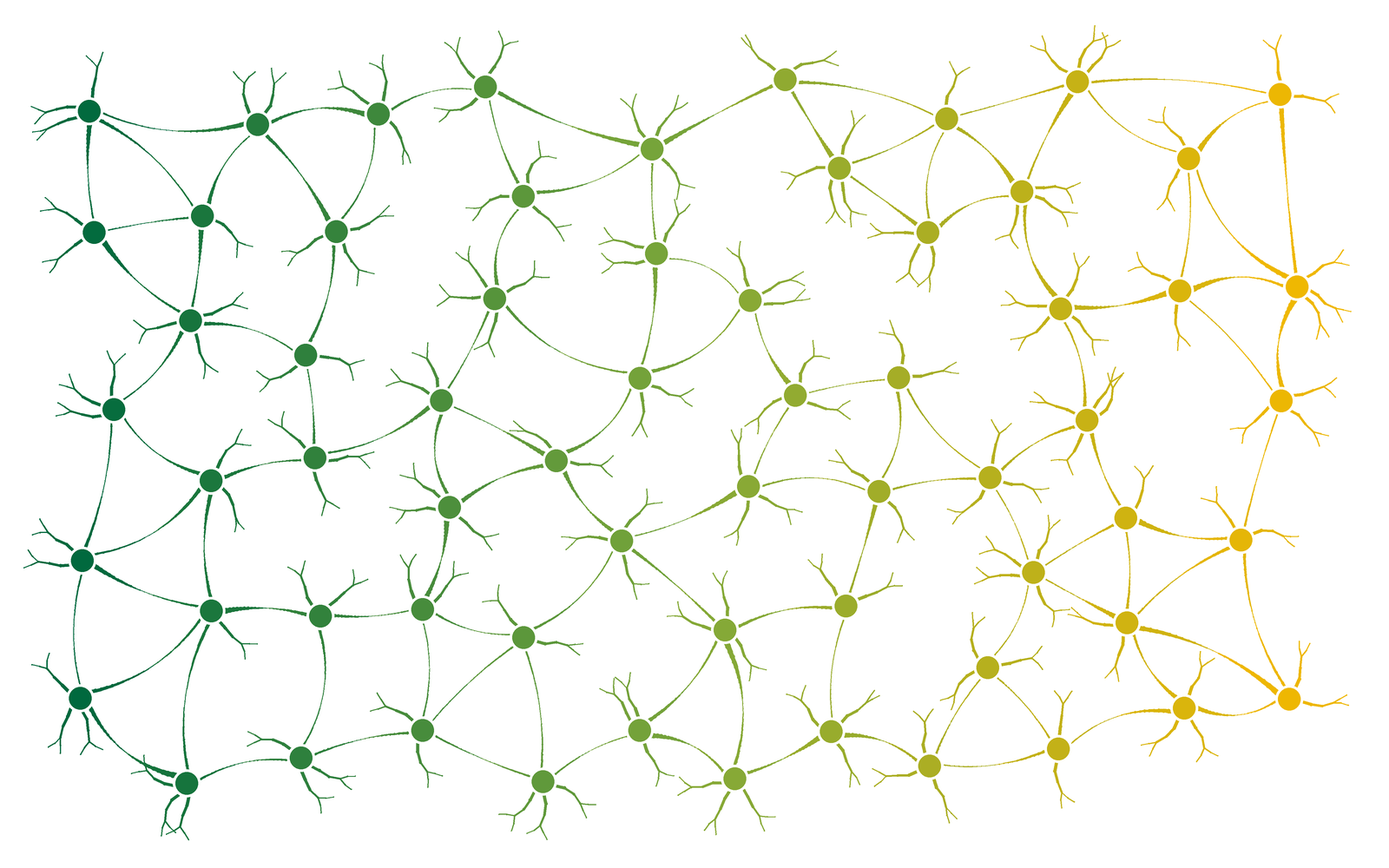
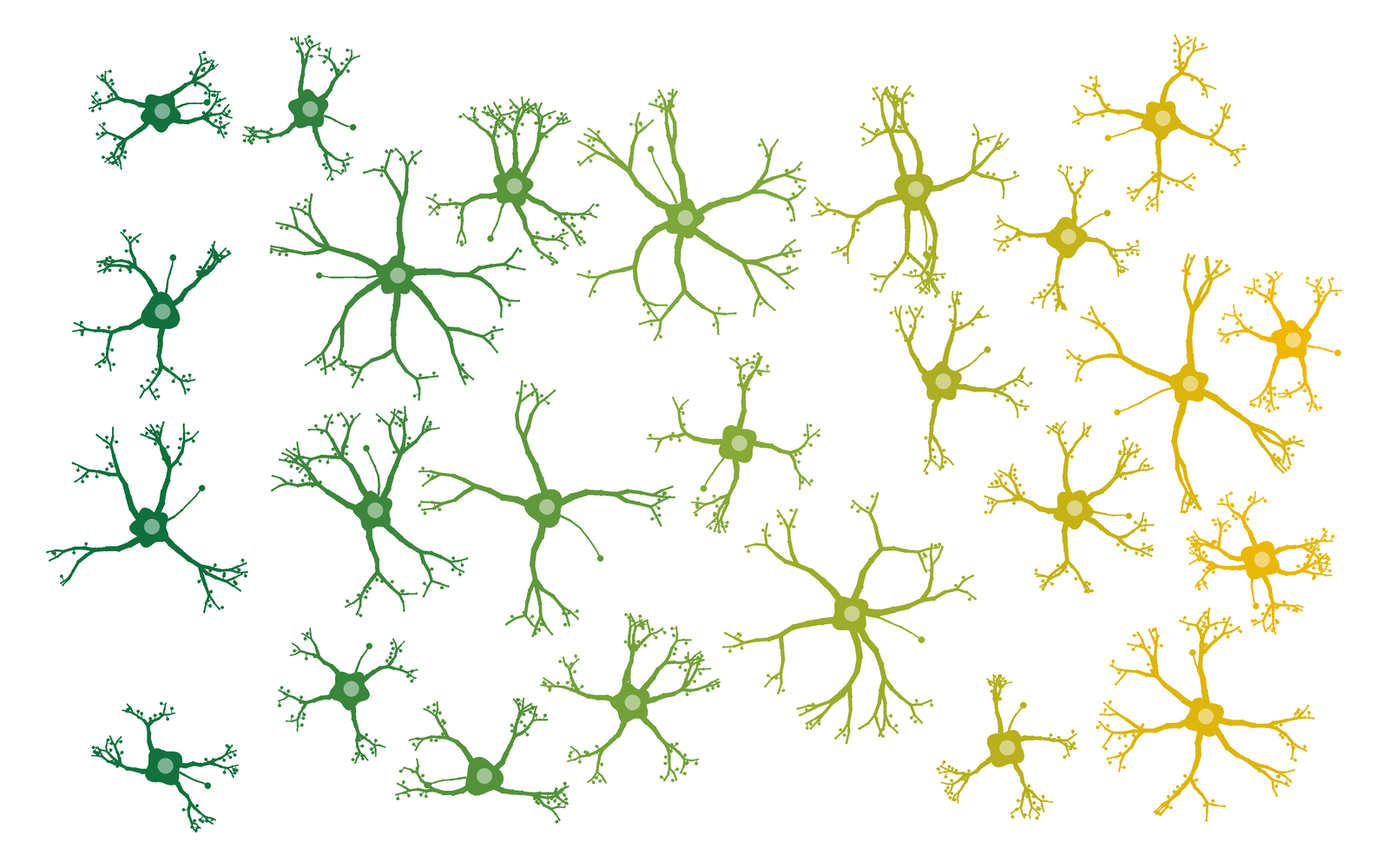
Research page: shorter titles, justified text, related-papers link inline; tags renamed to match; neuron image redrawn

Changed region(s): [[0.0312, 0.031, 0.9688, 0.961], [0.75, 0.031, 0.9688, 0.248], [0.5312, 0.062, 0.5938, 0.124]]

diff --git a/static/style.css b/static/style.css
@@ -165,8 +165,9 @@ main { min-height: 60vh; padding-bottom: 3rem; }
 .theme:nth-of-type(even) { grid-template-columns: minmax(0, 1fr) minmax(0, 1.25fr); }
 .theme:nth-of-type(even) .theme-fig { order: 2; }
 .theme-fig { width: 100%; aspect-ratio: 16 / 10; object-fit: cover; border-radius: 6px; border: 1px solid var(--line); }
-.theme-text h2 { margin-top: 0; }
-.theme-papers { margin: 1rem 0 0; font-weight: 600; }
+.theme-text h2 { margin-top: 0; font-size: clamp(1.05rem, 2.1vw, 1.5rem); }  /* shrinks with the window so each topic title stays on one line */
+@media (min-width: 56.01rem) { .theme-text .prose { text-align: justify; hyphens: auto; } }  /* justified only where the lines are long enough to avoid wide gaps */
+.theme-papers-link { font-weight: 600; white-space: nowrap; }
 .theme:not(:has(.theme-fig)) { grid-template-columns: minmax(0, 1fr); }
 
 /* ---- collapsible sections (Resources page) ---- */
@@ -187,11 +188,13 @@ main { min-height: 60vh; padding-bottom: 3rem; }
 .card { border: 1px solid var(--line); border-radius: 4px; padding: 1rem 1.25rem; background: var(--soft); font-style: normal; }
 .card h3 { margin-top: 0; font-size: 1.25rem; }
 
-@media (max-width: 44rem) {
-  .profile, .theme { grid-template-columns: minmax(0, 1fr); }
+@media (max-width: 56rem) {  /* research topics stack earlier than other pages, so the titles keep room */
+  .theme, .theme:nth-of-type(even) { grid-template-columns: minmax(0, 1fr); }
   .theme:nth-of-type(even) .theme-fig { order: 0; }
+}
+@media (max-width: 44rem) {
+  .profile { grid-template-columns: minmax(0, 1fr); }
   .pub { grid-template-columns: minmax(0, 1fr) 5.5rem; gap: 1rem; }
-  .theme:nth-of-type(even) { grid-template-columns: minmax(0, 1fr); }
 }
 @media (prefers-reduced-motion: no-preference) {
   .entry, .pub-links a { transition: border-color .15s, background-color .15s; }

diff --git a/templates/research.html b/templates/research.html
@@ -7,8 +7,10 @@
   {% if t.image %}<img class="theme-fig" src="{{ url('images/' ~ t.image) }}" alt="{{ t.image_alt }}" loading="lazy">{% endif %}
   <div class="theme-text">
     <h2>{{ t.title }}</h2>
-    <div class="prose">{{ t.html|safe }}</div>
-    {% if t.paper_count %}<p class="theme-papers"><a href="{{ url('publications/') }}?q={{ t.slug|urlencode }}">{{ t.paper_count }} related paper{{ 's' if t.paper_count != 1 }}<span aria-hidden="true"> &rarr;</span></a></p>{% endif %}
+    {% set link %}<a class="theme-papers-link" href="{{ url('publications/') }}?q={{ t.slug|urlencode }}">{{ t.paper_count }} related paper{{ 's' if t.paper_count != 1 }}<span aria-hidden="true"> &rarr;</span></a>{% endset %}
+    {# the link ends the last paragraph, so it sits inside the justified text #}
+    {% set body = t.html|trim %}
+    <div class="prose">{% if t.paper_count and body.endswith('</p>') %}{{ body[:-4]|safe }} {{ link }}</p>{% else %}{{ body|safe }}{% if t.paper_count %}<p>{{ link }}</p>{% endif %}{% endif %}</div>
   </div>
 </section>
 {% else %}

diff --git a/scripts/make_neural_synaptic_mechanisms_image.py b/scripts/make_neural_synaptic_mechanisms_image.py
@@ -1,7 +1,8 @@
-"""Generate the Research page picture for "Neural and synaptic mechanisms of learning".
+"""Generate the Research page picture for "Neural and synaptic mechanisms".
 
-A loose scatter of neurons, each a round cell body with branches. Branches from neighbouring neurons grow towards each
-other and meet halfway, thinning as they go, and a few short branches end in the open. Branch thickness varies widely. Colour fades from
+A loose scatter of neurons, each with an irregular cell body and nucleus, thick dendrites that taper and branch
+repeatedly, tiny spines along the branches, and a short axon ending in a bulb. Each neuron is placed at random but is only
+kept if it clears every neuron already placed, so nothing overlaps and nothing runs off the edge. Colour fades from
 green to yellow, left to right, like the other Research pictures. Deterministic (fixed seed); pure Pillow.
 
     .venv/bin/python scripts/make_neural_synaptic_mechanisms_image.py [output.png]     # default: content/images/neural-synaptic-mechanisms.png
@@ -15,107 +16,143 @@ from pathlib import Path
 from PIL import Image, ImageDraw
 
 W, H, SCALE = 1600, 1000, 3
-MARGIN, MIN_GAP, NEIGHBOURS = 90, 118, 3  # keep-out edge, closest two cell bodies may be, outgoing connections per neuron
-SOMA = 13  # cell body radius
+EDGE, CLEAR = 40, 15  # how close a neuron may come to the picture's edge, and to another neuron (pixels)
+SIZES = (1.0, 0.82, 0.66, 0.52)  # how large a neuron may be, tried from the biggest down
+FAIL_LIMIT, ATTEMPTS = 1500, 20000  # stop after this many failed tries in a row, or this many tries overall
+COLOUR_FROM, COLOUR_TO = 90, W - 90  # the left and right ends of the colour fade
+SOMA = 21  # cell body radius
 STOPS = [(0.0, (0, 105, 62)), (0.5, (127, 168, 58)), (1.0, (242, 184, 0))]  # green, yellow-green, yellow
 
 
-def colour(x):
-    t = min(1, max(0, (x - MARGIN) / (W - 2 * MARGIN)))
+def colour(x, lift=0.0):
+    t = min(1, max(0, (x - COLOUR_FROM) / (COLOUR_TO - COLOUR_FROM)))
     for (t0, c0), (t1, c1) in zip(STOPS, STOPS[1:]):
         if t <= t1:
             f = (t - t0) / (t1 - t0)
-            return tuple(round(a + (b - a) * f) for a, b in zip(c0, c1))
+            c = tuple(a + (b - a) * f for a, b in zip(c0, c1))
+            return tuple(round(v + (255 - v) * lift) for v in c)
     return STOPS[-1][1]
 
 
-def scatter(rng):
-    """Random points no closer than MIN_GAP (dart throwing), so the scatter looks even but not regular."""
-    pts = []
-    for _ in range(40000):
-        p = (rng.uniform(MARGIN, W - MARGIN), rng.uniform(MARGIN, H - MARGIN))
-        if all(math.dist(p, q) >= MIN_GAP for q in pts):
-            pts.append(p)
-    return pts
+def grow(rng, x, y, ang, steps, step, width, depth, out):
+    """One branch of a dendrite: it bends gently, tapers, then splits into two thinner branches."""
+    pts = [(x, y)]
+    for _ in range(steps):
+        ang += rng.uniform(-0.4, 0.4)
+        x, y = x + step * math.cos(ang), y + step * math.sin(ang)
+        pts.append((x, y))
+    end_width = width * 0.62
+    out.append((pts, width, end_width))
+    if depth:
+        for turn in (-1, 1):
+            grow(rng, x, y, ang + turn * rng.uniform(0.35, 0.75), max(2, steps - 1), step * 0.85, end_width, depth - 1, out)
+        if depth == 2 and rng.random() < 0.4:  # now and then a third branch
+            grow(rng, x, y, ang + rng.uniform(-0.2, 0.2), max(2, steps - 1), step * 0.85, end_width, depth - 1, out)
 
 
-def free_dendrites(rng, cx, cy, taken):
-    """Short branches that end in the open: they leave the cell body in directions not used by a connection, bend a little and fork at the end."""
+def neuron(rng, cx, cy, scale=1.0):
+    """One neuron (`scale` shrinks its branches, so smaller ones can fill the gaps): dendrite strokes, spines, a short axon with its end bulb, and points sampled along all of it (for the overlap check)."""
     strokes = []
-    for _ in range(rng.randint(2, 4)):
-        for _ in range(40):
-            a = rng.uniform(0, 2 * math.pi)
-            if all(abs((a - b + math.pi) % (2 * math.pi) - math.pi) > 0.7 for b in taken):
-                break
-        else:
-            continue
-        taken.append(a)
-        x, y = cx + SOMA * math.cos(a), cy + SOMA * math.sin(a)
-        pts = [(x, y)]
-        for _ in range(3):
-            a += rng.uniform(-0.45, 0.45)
-            x, y = x + 13 * math.cos(a), y + 13 * math.sin(a)
-            pts.append((x, y))
-        strokes.append((pts, 4.0, 1.8))
-        for turn in (-0.55, 0.55):
-            fa, fx, fy, fpts = a + turn + rng.uniform(-0.2, 0.2), x, y, [(x, y)]
-            for _ in range(2):
-                fa += rng.uniform(-0.3, 0.3)
-                fx, fy = fx + 9 * math.cos(fa), fy + 9 * math.sin(fa)
-                fpts.append((fx, fy))
-            strokes.append((fpts, 1.8, 1.0))
-    return strokes
+    count = rng.randint(4, 6)
+    start = rng.uniform(0, 2 * math.pi)
+    angles = [start + 2 * math.pi * k / count + rng.uniform(-0.3, 0.3) for k in range(count)]
+    for a in angles:
+        grow(rng, cx + SOMA * 0.8 * math.cos(a), cy + SOMA * 0.8 * math.sin(a), a, 4, 17 * scale, 8.5 * scale ** 0.5, 2, strokes)
+    axon = start + math.pi / count + rng.uniform(-0.2, 0.2)  # one thin axon in the gap between dendrites, ending in a small bulb
+    apts = [(cx + SOMA * 0.9 * math.cos(axon), cy + SOMA * 0.9 * math.sin(axon))]
+    for _ in range(5):
+        axon += rng.uniform(-0.25, 0.25)
+        apts.append((apts[-1][0] + 14 * scale * math.cos(axon), apts[-1][1] + 14 * scale * math.sin(axon)))
+    spines = []  # tiny stubs with a rounded head, sticking out along the thinner branches
+    for spts, w0, _ in strokes:
+        if w0 <= 5:
+            for (xa, ya), (xb, yb) in zip(spts, spts[1:]):
+                if rng.random() < 0.7:
+                    t = rng.random()
+                    x, y = xa + (xb - xa) * t, ya + (yb - ya) * t
+                    ang = math.atan2(yb - ya, xb - xa) + rng.choice((-1, 1)) * rng.uniform(1.0, 1.9)
+                    L = rng.uniform(3.5, 6.5)
+                    spines.append((x, y, x + L * math.cos(ang), y + L * math.sin(ang)))
+    samples = [(cx + SOMA * math.cos(a), cy + SOMA * math.sin(a)) for a in [i * math.pi / 6 for i in range(12)]] + [(cx, cy)]
+    for spts, _, _ in strokes + [(apts, 0, 0)]:
+        for (xa, ya), (xb, yb) in zip(spts, spts[1:]):
+            n = max(1, int(math.dist((xa, ya), (xb, yb)) / 4))
+            samples += [(xa + (xb - xa) * i / n, ya + (yb - ya) * i / n) for i in range(n + 1)]
+    samples += [(hx, hy) for _, _, hx, hy in spines]
+    return {"x": cx, "y": cy, "strokes": strokes, "axon": apts, "spines": spines, "samples": samples}
 
 
-def stroke(d, pts, w0, w1, c):
+def taper(d, pts, w0, w1, c):
     """A line that tapers from width w0 to w1 (in picture pixels), drawn as short round-ended pieces."""
     n = len(pts) - 1
     for i, ((xa, ya), (xb, yb)) in enumerate(zip(pts, pts[1:])):
         w = (w0 + (w1 - w0) * (i + 0.5) / n) * SCALE
-        d.line((xa * SCALE, ya * SCALE, xb * SCALE, yb * SCALE), fill=c, width=round(w))
+        d.line((xa * SCALE, ya * SCALE, xb * SCALE, yb * SCALE), fill=c, width=max(1, round(w)))
         r = w / 2
         d.ellipse((xb * SCALE - r, yb * SCALE - r, xb * SCALE + r, yb * SCALE + r), fill=c)
 
 
-def link(rng, a, b):
-    """A branch from neuron a and a branch from neuron b that grow towards each other and meet halfway, thinning as they go."""
-    (x0, y0), (x1, y1) = a, b
-    gap = math.dist(a, b)
-    ang = math.atan2(y1 - y0, x1 - x0)
-    sx, sy = x0 + SOMA * math.cos(ang), y0 + SOMA * math.sin(ang)
-    ex, ey = x1 - SOMA * math.cos(ang), y1 - SOMA * math.sin(ang)
-    nx, ny = -(ey - sy), ex - sx
-    norm = math.hypot(nx, ny) or 1
-    bend = rng.uniform(-0.22, 0.22) * gap
-    mx, my = (sx + ex) / 2 + nx / norm * bend, (sy + ey) / 2 + ny / norm * bend
-    curve = [((1 - t) ** 2 * sx + 2 * (1 - t) * t * mx + t * t * ex, (1 - t) ** 2 * sy + 2 * (1 - t) * t * my + t * t * ey) for t in [k / 24 for k in range(25)]]
-    return curve[:13], curve[12:][::-1], ang
+def dot(d, x, y, r, c):
+    d.ellipse(((x - r) * SCALE, (y - r) * SCALE, (x + r) * SCALE, (y + r) * SCALE), fill=c)
+
+
+def soma_outline(rng, cx, cy):
+    """An irregular, slightly pointed cell body."""
+    k, phase = rng.randint(3, 5), rng.uniform(0, 2 * math.pi)
+    return [(cx + SOMA * (1 + 0.14 * math.cos(k * a + phase)) * math.cos(a), cy + SOMA * (1 + 0.14 * math.cos(k * a + phase)) * math.sin(a)) for a in [i * math.pi / 45 for i in range(90)]]
+
+
+def place(rng):
+    """Neurons at random spots, each kept only if all of it fits in the picture and stays clear of the neurons already placed."""
+    cells, taken, cell = [], {}, CLEAR  # `taken` buckets every placed point by grid square, so the clearance check is quick
+    key = lambda p: (int(p[0] // cell), int(p[1] // cell))
+    fails = 0
+    for _ in range(ATTEMPTS):
+        if fails >= FAIL_LIMIT:
+            break
+        cx, cy = rng.uniform(EDGE + 30, W - EDGE - 30), rng.uniform(EDGE + 30, H - EDGE - 30)
+        for scale in SIZES:  # the biggest version of the neuron that fits at this spot
+            n = neuron(rng, cx, cy, scale)
+            ok = all(EDGE <= x <= W - EDGE and EDGE <= y <= H - EDGE for x, y in n["samples"])
+            for x, y in n["samples"] if ok else []:
+                gx, gy = key((x, y))
+                if any(math.dist((x, y), q) < CLEAR for i in (-1, 0, 1) for j in (-1, 0, 1) for q in taken.get((gx + i, gy + j), ())):
+                    ok = False
+                    break
+            if ok:
+                break
+        if ok:
+            for p in n["samples"]:
+                taken.setdefault(key(p), []).append(p)
+            cells.append(n)
+            fails = 0
+        else:
+            fails += 1
+    return cells
 
 
 def draw(path):
     rng = random.Random(5)
-    pts = scatter(rng)
-    pairs = set()
-    for i, p in enumerate(pts):
-        for j in sorted((j for j in range(len(pts)) if j != i), key=lambda j: math.dist(p, pts[j]))[:NEIGHBOURS]:
-            pairs.add((min(i, j), max(i, j)))
-    taken = [[] for _ in pts]  # directions in which each neuron already has a connecting branch
     big = Image.new("RGB", (W * SCALE, H * SCALE), "white")
     d = ImageDraw.Draw(big)
-    for i, j in sorted(pairs):
-        half_i, half_j, ang = link(rng, pts[i], pts[j])
-        taken[i].append(ang)
-        taken[j].append(ang + math.pi)
-        for half, owner in ((half_i, i), (half_j, j)):
-            strength = math.exp(rng.uniform(math.log(1.5), math.log(7)))  # each side has its own strength: many weak, a few strong
-            stroke(d, half, strength, 0.8, colour(pts[owner][0]))
-    for (x, y), used in zip(pts, taken):
+    cells = place(rng)
+    for n in cells:
+        c = colour(n["x"])
+        for spts, w0, w1 in n["strokes"]:
+            taper(d, spts, w0, w1, c)
+        for x, y, hx, hy in n["spines"]:
+            d.line((x * SCALE, y * SCALE, hx * SCALE, hy * SCALE), fill=c, width=SCALE)
+            dot(d, hx, hy, 1.7, c)
+        taper(d, n["axon"], 2.6, 1.6, c)
+        dot(d, n["axon"][-1][0], n["axon"][-1][1], 3.6, c)  # the axon's end bulb
+    for n in cells:
+        x, y = n["x"], n["y"]
         c = colour(x)
-        for spts, w0, w1 in free_dendrites(rng, x, y, used):
-            stroke(d, spts, w0, w1, c)
-        r, halo = SOMA * SCALE, 3 * SCALE
-        d.ellipse((x * SCALE - r - halo, y * SCALE - r - halo, x * SCALE + r + halo, y * SCALE + r + halo), fill="white")  # white ring so the cell body stands clear of the branches
-        d.ellipse((x * SCALE - r, y * SCALE - r, x * SCALE + r, y * SCALE + r), fill=c)
+        body = soma_outline(rng, x, y)
+        d.polygon([(px * SCALE, py * SCALE) for px, py in body], fill="white", outline="white", width=3 * SCALE)  # a white ring so the cell body stands clear of the branches
+        d.polygon([(px * SCALE, py * SCALE) for px, py in body], fill=c)
+        dot(d, x + 2, y - 1, SOMA * 0.42, colour(x, 0.45))  # the nucleus
+    print(len(cells), "neurons")
     path.parent.mkdir(parents=True, exist_ok=True)
     big.resize((W, H), Image.LANCZOS).save(path)
 

diff --git a/scripts/make_attention_bias_decision_making_image.py b/scripts/make_attention_bias_decision_making_image.py
@@ -1,10 +1,10 @@
-"""Generate the Research page picture for "Value, attention and bias in choice".
+"""Generate the Research page picture for "Attention, bias, and decision making".
 
 A lattice of identical circles seen through a lens that is focused off-centre: near the focus the circles swell, turn
 yellow and push their neighbours apart; farther away they shrink, turn green and fade. Everything underneath is the same,
 but not the same as perceived. Deterministic; pure Pillow.
 
-    .venv/bin/python scripts/make_value_attention_bias_image.py [output.png]     # default: content/images/value-attention-bias.png
+    .venv/bin/python scripts/make_attention_bias_decision_making_image.py [output.png]     # default: content/images/attention-bias-decision-making.png
 """
 
 import math
@@ -64,4 +64,4 @@ def draw(path):
 
 
 if __name__ == "__main__":
-    draw(Path(sys.argv[1]) if len(sys.argv) > 1 else Path(__file__).resolve().parent.parent / "content" / "images" / "value-attention-bias.png")
+    draw(Path(sys.argv[1]) if len(sys.argv) > 1 else Path(__file__).resolve().parent.parent / "content" / "images" / "attention-bias-decision-making.png")

diff --git a/scripts/make_uncertainty_and_change_image.py b/scripts/make_uncertainty_and_change_image.py
@@ -1,10 +1,10 @@
-"""Generate the Research page picture for "Adaptive learning under uncertainty and change".
+"""Generate the Research page picture for "Learning under uncertainty and change".
 
 Many thin, wobbling lines follow nearly the same path (uncertainty: many possible versions of the same world), then the
 whole bundle jumps to a new level (change). Each line fades from green to yellow, left to right. Deterministic (fixed
 seed), so rerunning gives the same picture. Pure Pillow, no other libraries.
 
-    .venv/bin/python scripts/make_adaptive_learning_image.py [output.png]     # default: content/images/adaptive-learning.png
+    .venv/bin/python scripts/make_uncertainty_and_change_image.py [output.png]     # default: content/images/uncertainty-and-change.png
 """
 
 import math
@@ -67,4 +67,4 @@ def draw(path):
 
 
 if __name__ == "__main__":
-    draw(Path(sys.argv[1]) if len(sys.argv) > 1 else Path(__file__).resolve().parent.parent / "content" / "images" / "adaptive-learning.png")
+    draw(Path(sys.argv[1]) if len(sys.argv) > 1 else Path(__file__).resolve().parent.parent / "content" / "images" / "uncertainty-and-change.png")

diff --git a/tests/test_paper_pages.py b/tests/test_paper_pages.py
@@ -180,5 +180,5 @@ def test_research_topic_links_to_papers_tagged_with_its_file_name(sandbox):
     sandbox.write("publications/tagged-b.bib", bib("b2024", title="Tagged B", keywords="Models, other"))
     sandbox.write("publications/untagged.bib", bib("c2024", title="Untagged", keywords="other"))
     page = sandbox.build().page("research/index.html")
-    assert '<a href="/publications/?q=models">2 related papers' in page.replace("/ccnl-website", "")
+    assert '?q=models">2 related papers' in page
     assert "?q=behavior" not in page  # a topic with no tagged paper shows no link

diff --git a/docs/maintainers/STRUCTURE.md b/docs/maintainers/STRUCTURE.md
@@ -259,7 +259,7 @@ Every picture goes directly in `content/images/` (no subfolders) and is paired w
 |---|---|---|
 | Profile photo | `content/images/jane-doe.jpg` | `content/people/jane-doe.md` |
 | Paper thumbnail | `content/images/2026-doe-paper.jpg` | `content/publications/2026-doe-paper.bib` |
-| Research figure | `content/images/adaptive-learning.jpg` | `content/research/adaptive-learning.md` |
+| Research figure | `content/images/uncertainty-and-change.png` | `content/research/uncertainty-and-change.md` |
 | Logos, hero photo | any name | named in `lab.yaml` / `home.md` |
 
 - No `image:` line is needed when the names match. For papers and research themes an optional `image` line names
@@ -278,6 +278,6 @@ Every picture goes directly in `content/images/` (no subfolders) and is paired w
 
 - Publications are bordered cards with a minimum height (text left, thumbnail right); unlike people cards they are not wholly clickable, because each has several links and an abstract toggle.
 - Publications page: one search box (needs JavaScript; hidden without it) matching every word against every BibTeX field, a row of links to each year and Preprints, big serif year headings with a rule, and condensed cards (6rem thumbnail). Each year is a `section#year-YYYY`; years with no match are hidden while searching. Profile pages keep the smaller headings.
-- Research topics link to papers by keyword: a paper whose `keywords` include a research file's name (e.g. `adaptive-learning`) is counted in that topic's "N related papers" link, which opens `/publications/?q=<name>`. No separate field; tags are plain keywords, so students add them like any other keyword (the four current tags are listed in `_TEMPLATE.bib` and the paper guide).
+- Research topics link to papers by keyword: a paper whose `keywords` include a research file's name (e.g. `uncertainty-and-change`) is counted in that topic's "N related papers" link, which opens `/publications/?q=<name>`. No separate field; tags are plain keywords, so students add them like any other keyword (the four current tags are listed in `_TEMPLATE.bib` and the paper guide).
 - Paper pages: every `.bib` file also builds `publications/<file name>/` (template `publication.html`) from its fields. Shown: venue + date (`month` optional), title, authors (lab members link to profiles; co-first key when present), link buttons, full abstract, `keywords` chips (each searches the Publications page via `?q=`), a generated plain-text citation, DOI/PubMed ID, copyable BibTeX, a "Corresponding author" row under the PubMed ID (names, linked to profiles for lab members; no email on the paper page, the profile holds it; corresponding authors are not highlighted on the paper page, only on the list), and `citation_*` meta tags for Google Scholar. The thumbnail sits top right of the header card at 15rem, uncropped (it stacks below the text on phones); there is no generic filler on the page. List cards open the page through a stretched title link; their small link buttons stay clickable above it, and the abstract toggle moved from the cards to the page. Skipped on purpose: automatic topic/approach tagging, citation counts, a personal reading list. New optional fields: `month`, `pmid`, `keywords`, and extra link fields (`preprint`, `video`, `slides`, `poster`).
 - `content/publications/_TEMPLATE.bib` (ignored by the build, like `people/_TEMPLATE.md`) lists every supported field with comments; every paper file carries the same blank optional lines (`field = {}`), which the loader ignores and the page's BibTeX view hides, so students fill in values without looking fields up. A test checks the template and all real paper files list every optional field, so a new field means adding it to `OPTIONAL_FIELDS` in `tests/test_paper_pages.py`, the template and the files.

diff --git a/docs/guides/ADD-A-PAPER.md b/docs/guides/ADD-A-PAPER.md
@@ -63,7 +63,7 @@ A complete example (the lines after `year` are all optional):
 | `pmid = {12345678}` | adds a PubMed button; just the number |
 | `pdf`, `preprint`, `si`, `data`, `code`, `video`, `slides`, `poster`, `url` | adds link buttons; values must start with `https://` |
 | `abstract = {...}` | the abstract, shown in full on the paper's own page |
-| `keywords = {learning, uncertainty}` | keyword chips on the paper's page; clicking one searches the Publications page. Separate with commas or semicolons. To list the paper on the Research page, add the tag of each research topic it belongs to: `adaptive-learning`, `complex-environments`, `value-attention-bias`, `neural-synaptic-mechanisms` |
+| `keywords = {learning, uncertainty}` | keyword chips on the paper's page; clicking one searches the Publications page. Separate with commas or semicolons. To list the paper on the Research page, add the tag of each research topic it belongs to: `uncertainty-and-change`, `complex-environments`, `attention-bias-decision-making`, `neural-synaptic-mechanisms` |
 | `cofirst = {Doe, Smith}` | marks these authors (by last name) as co-first authors, shown in purple |
 | `corresponding = {Soltani}` | marks corresponding authors: a yellow highlight on the Publications list, and a "Corresponding author" line under Cite on the paper's page that links to their profile (put your email on your profile if you want it shown) |
 | `status = {preprint}` | lists the paper under "Preprints" |

diff --git a/content/research/neural-synaptic-mechanisms.md b/content/research/neural-synaptic-mechanisms.md
@@ -1,6 +1,6 @@
 ---
-title: Neural and synaptic mechanisms of learning
+title: Neural and synaptic mechanisms
 order: 4
-image_alt: A loose scatter of neurons, each a round cell body with branching dendrites. Branches from neighboring neurons grow toward each other and meet halfway, thinning as they go, and their thickness varies widely, standing for synapses of different strength. Color fades from green on the left to yellow on the right.
+image_alt: A scatter of about two dozen neurons of different sizes, none touching. Each has a round cell body with a lighter nucleus, thick dendrites that taper and branch repeatedly and carry tiny spines, and a short axon ending in a small bulb. Color fades from green on the left to yellow on the right.
 ---
 Flexible learning must be implemented by biological brains, requiring compromises between fast learning and precise estimation. We investigate the neural mechanisms required for learning by developing synaptic and circuit models, including reward-dependent metaplasticity, recurrent neural networks, and large-scale functional spiking networks, and test them against recordings and causal manipulations obtained with collaborators. This includes comparison to single-neuron timescales in monkeys, rats and mice, as well as large-scale activity patterns in monkeys and humans.

diff --git a/docs/guides/EDIT-SITE-TEXT.md b/docs/guides/EDIT-SITE-TEXT.md
@@ -32,7 +32,7 @@ and `image_alt` describes the picture for screen readers. The picture is `conten
 name as the topic's file. To add a topic, add a new file; to remove one, delete its file.
 
 Each topic ends with a link such as "12 related papers" that opens the Publications page searched for the topic's file
-name (for `adaptive-learning.md` it searches `adaptive-learning`). A paper is included when its `keywords` line contains
+name (for `uncertainty-and-change.md` it searches `uncertainty-and-change`). A paper is included when its `keywords` line contains
 that tag, so tagging a paper is one word in its `.bib` file (see [Add or fix a paper](ADD-A-PAPER.md)). For a new
 topic, choose the file name once and use it as the tag.
 

diff --git a/content/research/attention-bias-decision-making.md b/content/research/attention-bias-decision-making.md
@@ -1,5 +1,5 @@
 ---
-title: Value, attention and bias in choice
+title: Attention, bias, and decision making
 order: 3
 image_alt: A field of identical circles seen through a lens focused just right of center. Near the focus the circles are large and yellow and pushed apart; farther away they shrink and turn green. The circles are all the same underneath, which stands for how attention and context make some values loom larger than others.
 ---

diff --git a/content/research/uncertainty-and-change.md b/content/research/uncertainty-and-change.md
@@ -1,5 +1,5 @@
 ---
-title: Adaptive learning under uncertainty and change
+title: Learning under uncertainty and change
 order: 1
 image_alt: Many thin overlapping lines, fading from green on the left to yellow on the right, wander around a shared level and then all jump together to a higher level. The wandering stands for ordinary randomness; the shared jump stands for a genuine change in the environment.
 ---
